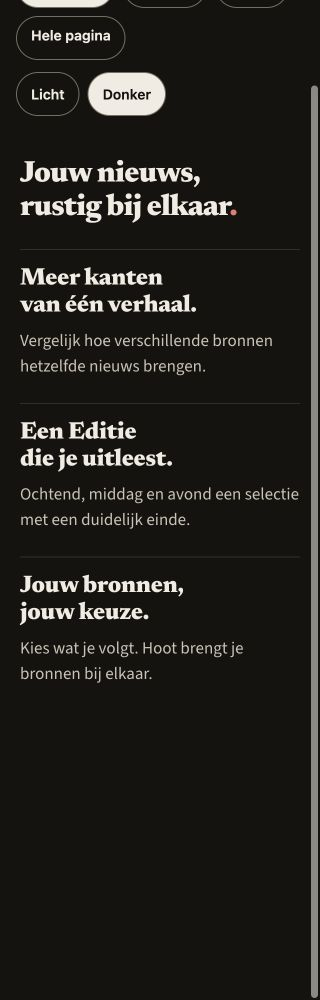
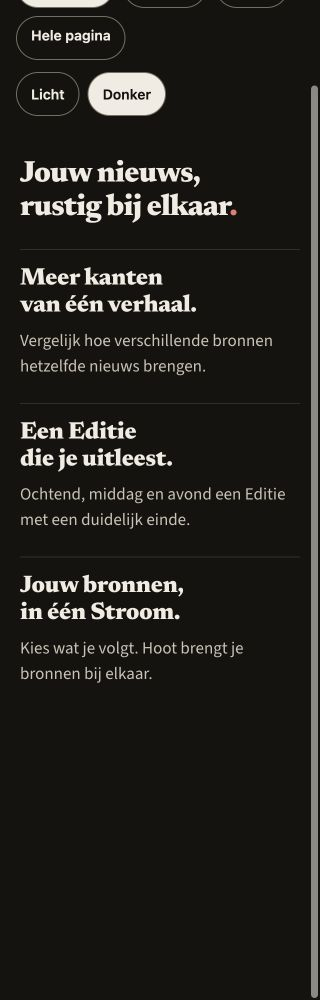
Benoem Editie en Stroom duidelijk in de voordelenrij

Changed region(s): [[0.0625, 0.589, 0.5625, 0.62], [0.7812, 0.465, 0.9375, 0.527]]

diff --git a/landing/index.src.html b/landing/index.src.html
@@ -131,8 +131,8 @@
     <h2 id="h-voordelen">Jouw nieuws, rustig bij elkaar<span class="punt">.</span></h2>
     <ul class="voordeel-lijst">
       <li><h3><span>Meer kanten</span> <span>van één verhaal.</span></h3><p>Vergelijk hoe verschillende bronnen hetzelfde nieuws brengen.</p></li>
-      <li><h3><span>Een Editie</span> <span>die je uitleest.</span></h3><p>Ochtend, middag en avond een selectie met een duidelijk einde.</p></li>
-      <li><h3><span>Jouw bronnen,</span> <span>jouw keuze.</span></h3><p>Kies wat je volgt. Hoot brengt je bronnen bij elkaar.</p></li>
+      <li><h3><span>Een Editie</span> <span>die je uitleest.</span></h3><p>Ochtend, middag en avond een Editie met een duidelijk einde.</p></li>
+      <li><h3><span>Jouw bronnen,</span> <span>in één Stroom.</span></h3><p>Kies wat je volgt. Hoot brengt je bronnen bij elkaar.</p></li>
     </ul>
   </div>
 </section>

diff --git a/docs/codex-blokken/landing-afwerking.md b/docs/codex-blokken/landing-afwerking.md
@@ -30,3 +30,9 @@ Open in GitHub Desktop de bestaande werkmap **Hoot-beta-integratie**, branch **l
 Merge **landing-afwerking → main** als één pakket. De footer zit er al in: `landing-footer-ruimte` niet nog apart overnemen. `landing-selectie-tech` evenmin mergen: de AI-inhoud daarvan is vervangen door Werk & organisatie. Het losse voordelenconcept is hiermee naar productcode vertaald; de meest recente controlebeelden staan bij dit pakket.
 
 De app hoeft hiervoor niet opnieuw naar TestFlight. Na de merge kan de bestaande Git/Netlify-route de website bouwen. Controleer daarna op het echte adres de drie onderdelen en kleine mobiele breedte. Alex doet de merge; Claude krijgt deze overdracht voor de woensdagcontrole.
+
+## Tekstcorrectie op verzoek van Alex
+
+De tweede begeleidende tekst is **‘Ochtend, middag en avond een Editie met een duidelijk einde.’** De derde payoff is **‘Jouw bronnen, in één Stroom.’**, verdeeld over ‘Jouw bronnen,’ en ‘in één Stroom.’ Selectie blijft de naam van het aparte productonderdeel.
+
+Controle na deze tekstcorrectie: beide bestaande landingtests geslaagd, productiebuild opnieuw geslaagd; CSS en JavaScript ongewijzigd. De eerdere volledige suite van 999 geslaagde tests + 1 TODO is niet opnieuw als nieuwe meting geclaimd.
